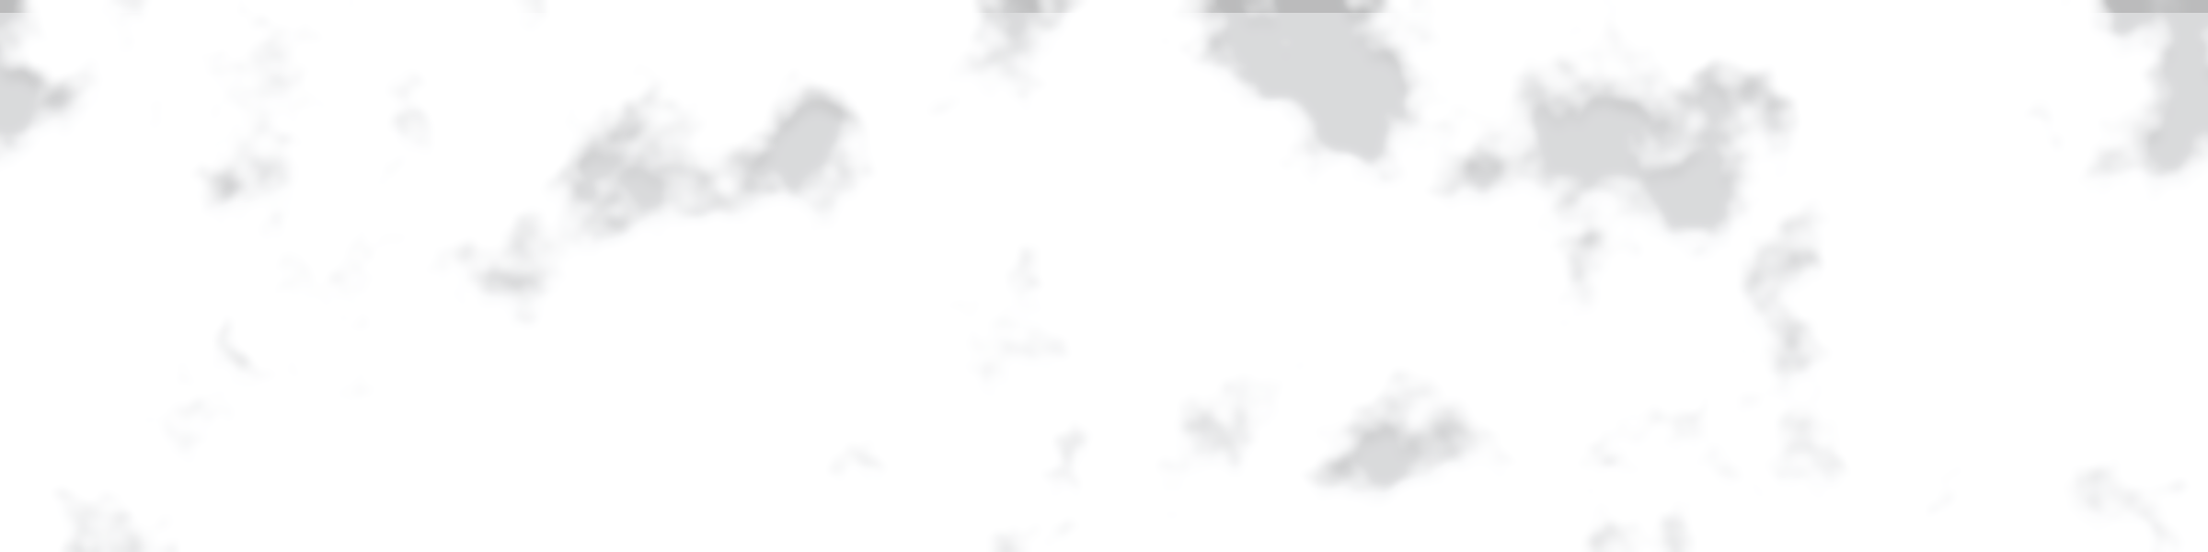
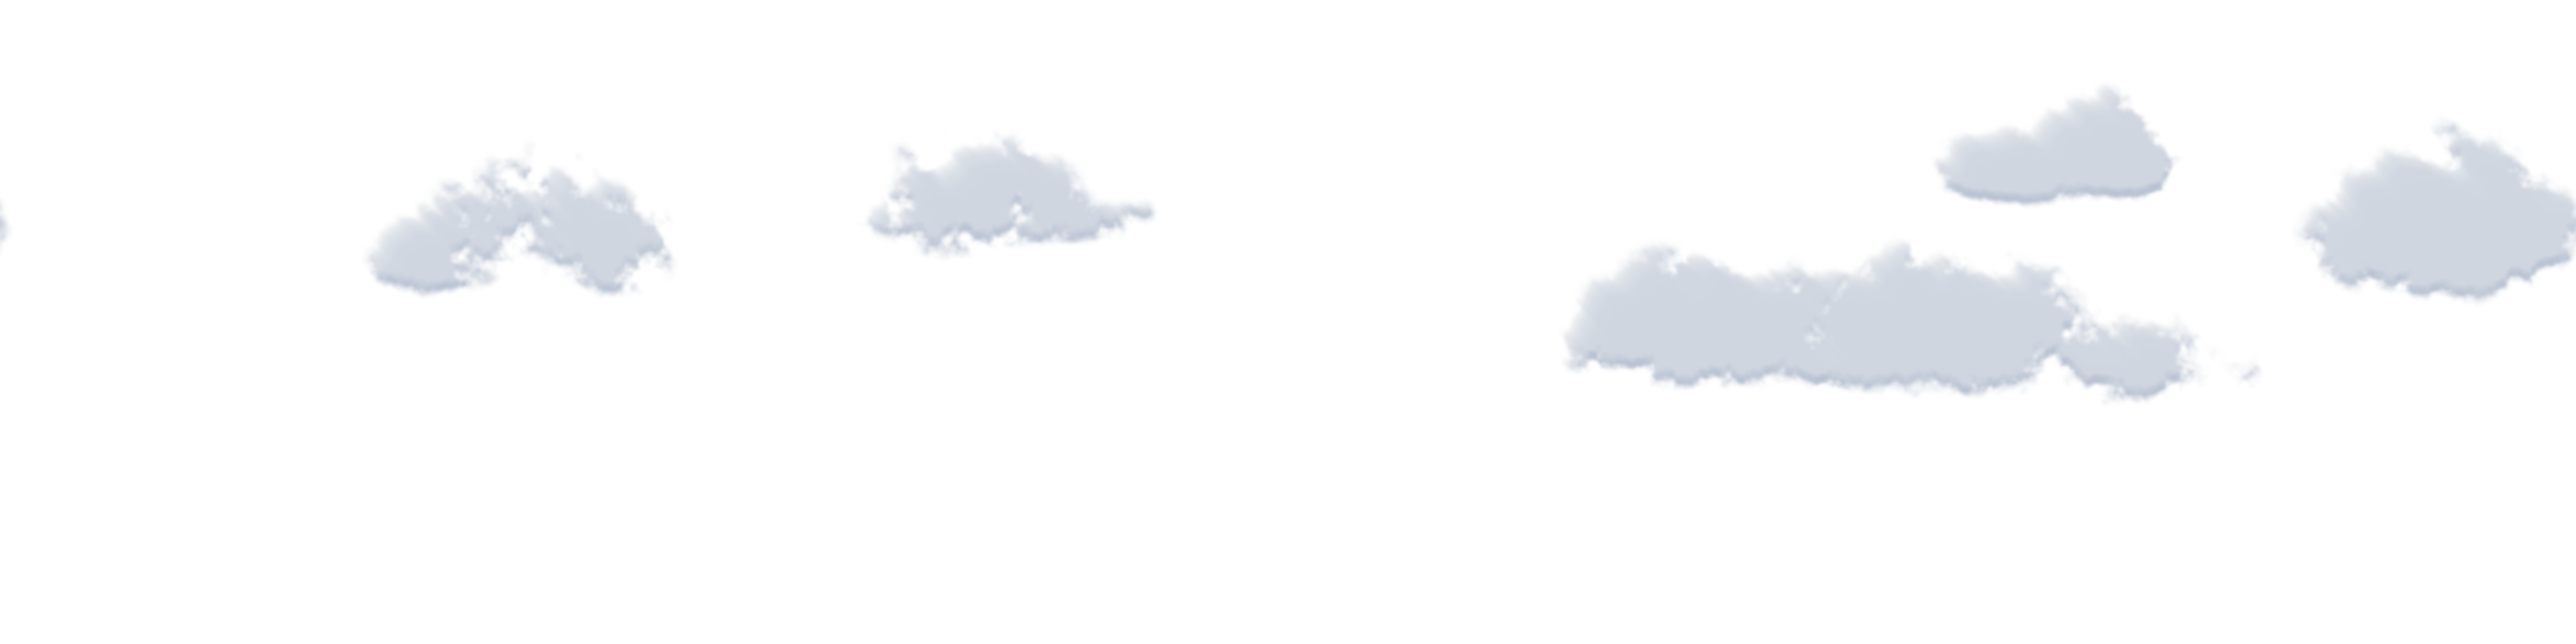
Realistic sky: cumulus clouds, dusk light, sun glow, birds, window lights turning on
Claude-Session: https://claude.ai/code/session_01NNj4cqysaypGWC4rhazLur

diff --git a/index.html b/index.html
@@ -366,10 +366,18 @@ footer{padding:40px 0;color:var(--muted);font-size:13px;border-top:1px solid var
 @media (max-width:620px){.lscroll{height:200vh}.tclock{left:16px;bottom:16px}.shint{display:none}}
 .clouds{position:absolute;inset:0;pointer-events:none;-webkit-mask-image:url(img/hero/skymask.png);mask-image:url(img/hero/skymask.png);-webkit-mask-size:cover;mask-size:cover;-webkit-mask-position:center 78%;mask-position:center 78%;-webkit-mask-repeat:no-repeat;mask-repeat:no-repeat;will-change:opacity,filter}
 .cl{position:absolute;left:0;top:0;width:200%;height:100%;background-repeat:repeat-x;background-size:50% auto;background-position:0 0;will-change:transform}
-.cl.c1{background-image:url(img/hero/clouds1.png);animation:drift 160s linear infinite;opacity:.95}
-.cl.c2{background-image:url(img/hero/clouds2.png);top:-3%;animation:drift 95s linear infinite;opacity:.85}
+.cl.c1{background-image:url(img/hero/clouds1.png);width:360%;top:-8%;animation:drift 260s linear infinite;opacity:.95}
+.cl.c2{background-image:url(img/hero/clouds2.png);width:260%;top:8%;animation:drift 170s linear infinite;opacity:.85}
+.cl.c3{background-image:url(img/hero/clouds3.png);width:400%;top:-10%;animation:drift 480s linear infinite;opacity:.9}
+.lhero .layer img.lt{opacity:0;mix-blend-mode:screen}
+.sunglow{position:absolute;inset:0;pointer-events:none;background:radial-gradient(40% 45% at 82% 6%,rgba(255,246,220,.55),rgba(255,240,210,.18) 40%,rgba(255,240,210,0) 70%);mix-blend-mode:screen}
+.dusk{position:absolute;inset:0;pointer-events:none;opacity:0;background:linear-gradient(180deg,rgba(70,60,140,.55) 0%,rgba(230,120,90,.55) 34%,rgba(255,170,100,.45) 48%,rgba(255,190,130,0) 70%);mix-blend-mode:soft-light}
+.birds{position:absolute;left:0;top:14%;width:180px;height:54px;fill:none;stroke:#2a3440;stroke-width:1.1;stroke-linecap:round;pointer-events:none;animation:fly 38s linear infinite;opacity:.75}
+.birds path{animation:flap .9s ease-in-out infinite;transform-origin:center;transform-box:fill-box}
+@keyframes fly{0%{transform:translate(-20vw,30px)}50%{transform:translate(55vw,-10px)}100%{transform:translate(120vw,20px)}}
+@keyframes flap{0%,100%{transform:scaleY(1)}50%{transform:scaleY(-.55)}}
 @keyframes drift{from{transform:translateX(0)}to{transform:translateX(-50%)}}
-@media (prefers-reduced-motion:reduce){.cl{animation:none}}
+@media (prefers-reduced-motion:reduce){.cl,.birds,.birds path{animation:none}.birds{display:none}}
 .dn{position:absolute;right:32px;bottom:28px;z-index:3;display:flex;background:rgba(15,28,23,.45);backdrop-filter:blur(8px);border-radius:999px;padding:4px;border:1px solid rgba(255,255,255,.25)}
 .dn button{border:none;background:none;color:#E6EEEA;padding:7px 16px;border-radius:999px;font-size:13px;font-weight:600}
 .dn button.on{background:#F2F5F3;color:var(--ink)}
@@ -961,7 +969,7 @@ function landStyles(){let L=[];D.sizes.forEach(z=>z.styles.forEach(t=>L.push({z,
   return L.map(({z,t},i)=>`<a class="lst rv" style="transition-delay:${(i%4)*.07}s" href="#f${z.s}-s${t.n}"><img loading="lazy" src="${im(t.hero)}" alt="${esc(t.name)}"><span class="bd ${t.exist?'ex':''}">${t.exist?'Existing':'New theme'}</span><div class="ov"><small>${z.lab} sq ft · Type-${t.n} · ${t.facing}</small><b>${esc(t.name)}</b><div class="pp">${t.pal.map(p=>`<i style="background:${p[1]}"></i>`).join('')}</div></div></a>`).join('')}
 function vLanding(){
   const all=progress();
-  return `<div class="lscroll" id="lscroll"><section class="lhero" id="lhero"><div class="layer" id="hlayer"><img class="day" src="${im('hero/day')}" alt="BREEZE in the Courtyard, day view"><img class="night" id="hnight" src="${im('hero/night')}" alt="BREEZE in the Courtyard, night view"><div class="clouds" id="hclouds"><div class="cl c1"></div><div class="cl c2"></div></div></div><div class="stars" id="hstars"></div><div class="glow" id="hglow"></div><div class="shade" id="hshade"></div>
+  return `<div class="lscroll" id="lscroll"><section class="lhero" id="lhero"><div class="layer" id="hlayer"><img class="day" src="${im('hero/day')}" alt="BREEZE in the Courtyard, day view"><img class="night" id="hnight" src="${im('hero/night_dim')}" alt="BREEZE in the Courtyard, night view">${[0,1,2,3,4].map(k=>`<img class="lt" id="hl${k}" src="${im('hero/lights'+k)}" alt="">`).join('')}<div class="sunglow" id="hsun"></div><div class="clouds" id="hclouds"><div class="cl c3"></div><div class="cl c1"></div><div class="cl c2"></div></div><div class="dusk" id="hdusk"></div><svg class="birds" id="hbirds" viewBox="0 0 200 60">${[[10,30,1],[24,22,.8],[30,36,.9],[44,28,.7],[52,40,.85],[66,32,.75]].map(([x,y,s],i)=>`<path style="animation-delay:-${i*.17}s" d="M${x-4*s} ${y} q${2*s} ${-2.6*s} ${4*s} 0 q${2*s} ${-2.6*s} ${4*s} 0" />`).join('')}</svg></div><div class="stars" id="hstars"></div><div class="glow" id="hglow"></div><div class="shade" id="hshade"></div>
    <div class="tclock"><span class="orb"><i id="horb"></i></span><span id="htime">10:30 AM</span></div>
    <div class="shint" id="hhint"><i></i></div><div class="dn"><button class="on" data-dn="day">Day</button><button data-dn="night">Night</button></div>
 </section></div>
@@ -982,7 +990,9 @@ function heroTick(){
   const n=sm(.12,.72,p);
   $('#hnight').style.opacity=n;
   $('#hlayer').style.transform=`translateY(${p*-2}%) scale(${1.06-p*.06})`;
-  $('#hglow').style.opacity=sm(.45,.9,p);const cl=$('#hclouds');cl.style.opacity=1-n*.55;cl.style.filter=`brightness(${1-n*.6}) saturate(${1-n*.4})`;cl.style.transform='';$('#hstars').style.opacity=sm(.55,.95,p)*.8;
+  $('#hglow').style.opacity=sm(.45,.9,p);const dusk=Math.max(0,1-Math.abs(p-.42)/.26);const cl=$('#hclouds');cl.style.opacity=1-n*.7;cl.style.filter=`brightness(${1-n*.55+dusk*.05}) sepia(${dusk*.25}) saturate(${1+dusk*.6-n*.5}) hue-rotate(${-dusk*20+n*10}deg)`;cl.style.transform=`translateY(${-p*3}%)`;
+  $('#hdusk').style.opacity=dusk*.95;$('#hsun').style.opacity=1-sm(.05,.45,p);$('#hbirds').style.opacity=(1-sm(.15,.45,p))*.75;
+  for(let k=0;k<5;k++){$('#hl'+k).style.opacity=sm(.5+k*.08,.62+k*.08,p)}$('#hstars').style.opacity=sm(.55,.95,p)*.8;
   
   $('#hhint').style.opacity=1-sm(0,.08,p);
   const min=10.5*60+Math.round(n*9*60);const hh=Math.floor(min/60),mm=min%60;$('#htime').textContent=`${((hh+11)%12)+1}:${String(mm-mm%5).padStart(2,'0')} ${hh>=12?'PM':'AM'}`;
